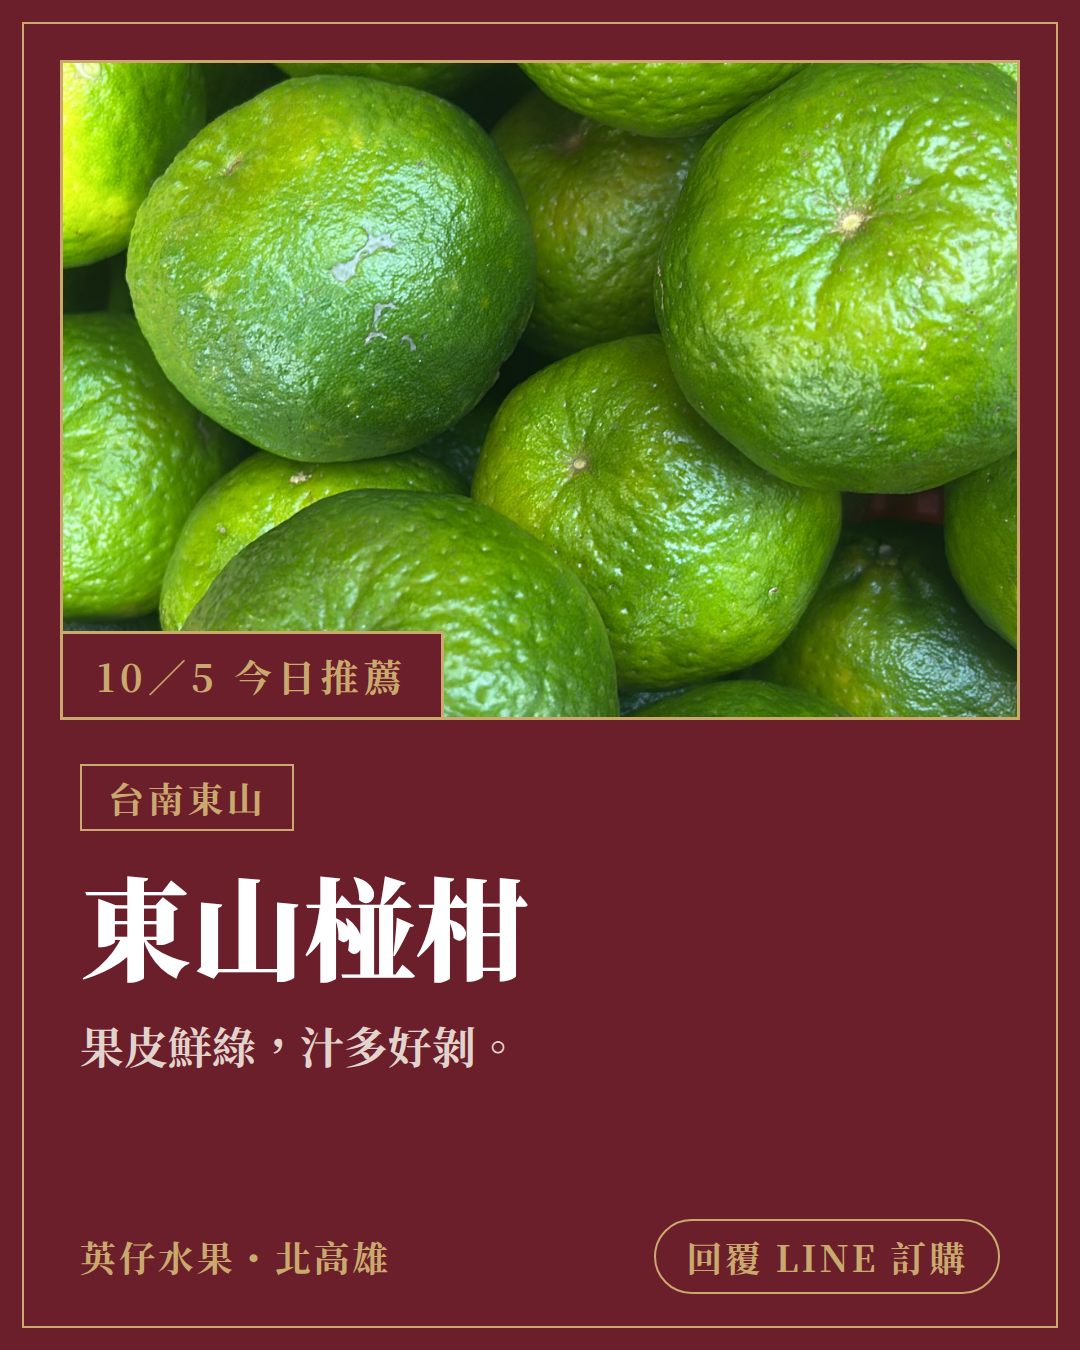
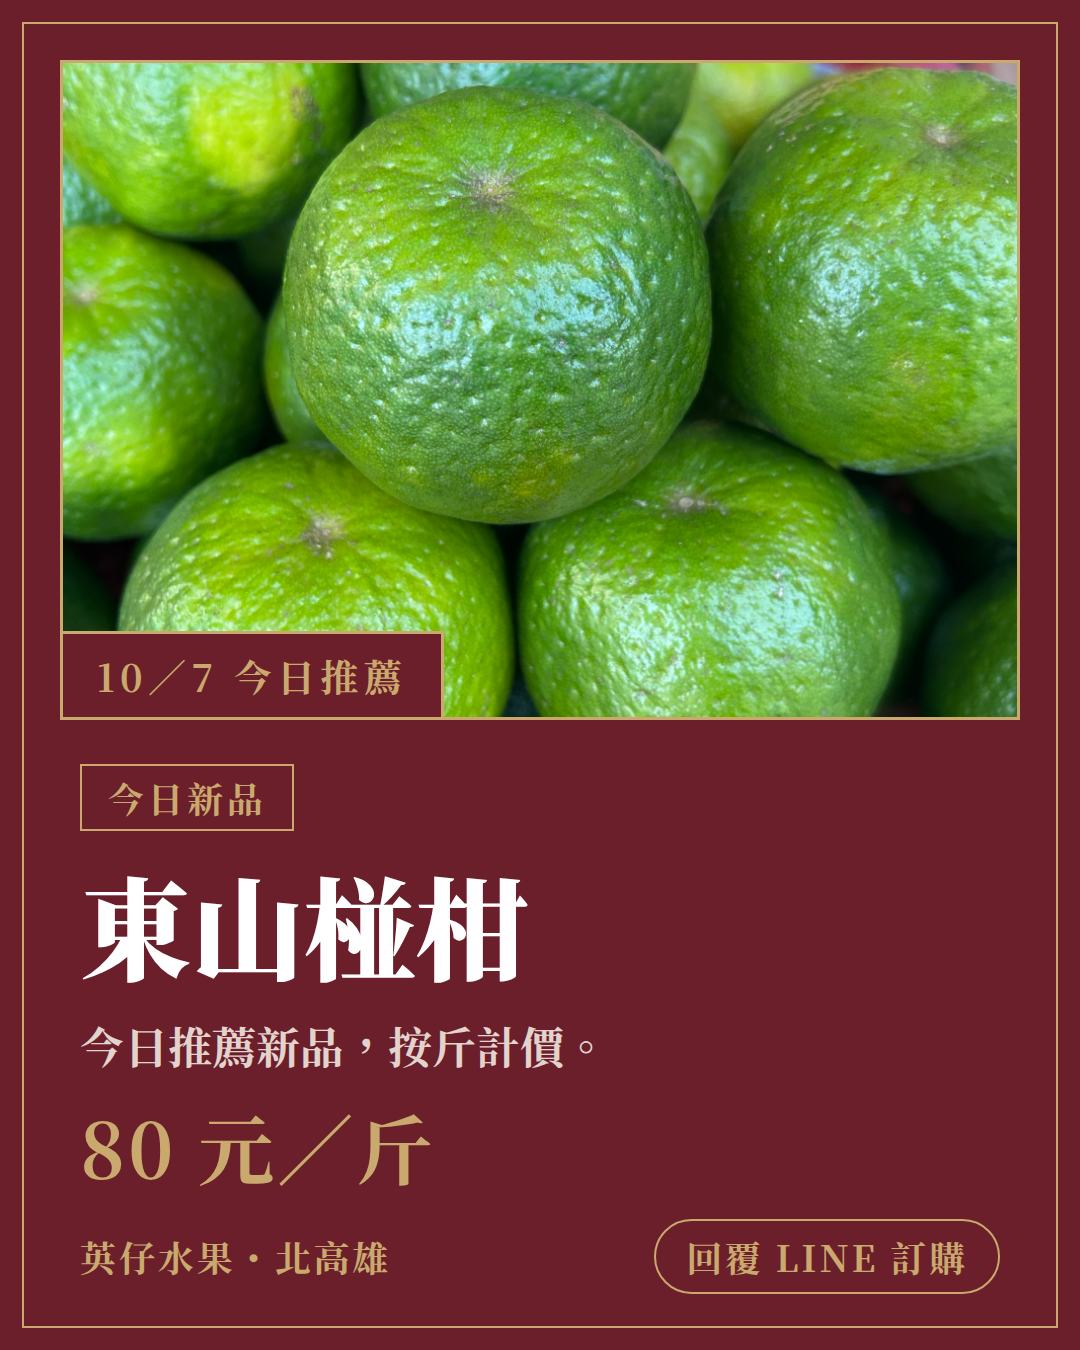
Update cards/list with today's new items and prices
Claude-Session: https://claude.ai/code/session_01PL7HGywDrPUdsLBcZeJFu6

diff --git a/ig/line.html b/ig/line.html
@@ -29,9 +29,9 @@ body{background:#999;font-family:'Noto Serif TC',serif;font-weight:700;display:f
 .card .ph{flex:0 0 380px;height:380px;background-size:cover;background-position:center;border:3px solid var(--gold)}
 .card .tx{flex:1;display:flex;flex-direction:column;justify-content:center}
 .tag{align-self:flex-start;background:var(--wine);color:var(--cream);font-size:32px;padding:6px 24px;letter-spacing:.08em}
-.card h3{font-size:60px;font-weight:900;margin:22px 0 14px;line-height:1.2;color:var(--wine)}
+.card h3{font-size:56px;font-weight:900;margin:22px 0 14px;line-height:1.2;color:var(--wine)}
 .card p{font-size:36px;line-height:1.65;color:#4a4a4a}
-.price{margin-top:14px;font-size:44px;font-weight:700;color:var(--wine)}
+.price{margin-top:12px;font-size:52px;font-weight:700;color:var(--wine)}
 .cta{background:var(--wine);color:var(--cream);padding:70px;text-align:center}
 .cta h4{font-size:64px;font-weight:900;color:var(--gold);line-height:1.3}
 .cta p{font-size:40px;line-height:1.8;margin-top:22px}
@@ -39,13 +39,14 @@ body{background:#999;font-family:'Noto Serif TC',serif;font-weight:700;display:f
 </style></head><body>
 <script>
 // ===== 每天只需改這裡 =====
-const DATE = '10／5';
+const DATE = (() => { const t = new Date(new Date().toLocaleString('en-US', { timeZone: 'Asia/Taipei' })); return `${t.getMonth() + 1}／${t.getDate()}`; })();
 const ITEMS = [
- {name:'東山椪柑', origin:'台南東山', desc:'果皮鮮綠，汁多好剝。', price:'', img:'photos/ponkan.jpg'},
- {name:'十月龍眼', origin:'台中', desc:'十月當季龍眼，一串一串帶回家。', price:'', img:'photos/longan.jpg'},
- {name:'美國蜜世界', origin:'美國空運', desc:'整顆個頭大，果肉清甜，聚會分享剛好。', price:'', img:'photos/honeydew.jpg'},
- {name:'老欉文旦', origin:'雲林斗六', desc:'老欉栽培的文旦，中秋過後也適合送禮、拜拜。', price:'', img:'photos/pomelo.jpg'},
- {name:'San Clemente 蘋果', origin:'智利進口', desc:'紅潤漂亮的進口蘋果，削皮或直接吃都好。', price:'', img:'photos/apple.jpg'}
+ {file:'apple', name:'智利蘋果', origin:'智利進口', desc:'今日推薦新品。', price:'3 顆 100 元', img:'photos/apple-new.jpg'},
+ {file:'honeydew', name:'美國蜜世界', origin:'美國空運', desc:'今日推薦新品。', price:'1 顆 400 元', img:'photos/melon-new.jpg'},
+ {file:'passion', name:'藍星百香果', origin:'今日新品', desc:'這超香，吃起來超甜！', price:'5 粒 100 元', img:'photos/passion.jpg'},
+ {file:'persimmon', name:'次郎甜柿', origin:'今日新品', desc:'今日推薦新品。', price:'1 顆 50 元', img:'photos/persimmon.jpg'},
+ {file:'dragonfruit', name:'火龍果', origin:'今日新品', desc:'今日推薦新品，按斤計價。', price:'60 元／斤', img:'photos/dragonfruit.jpg'},
+ {file:'ponkan', name:'東山椪柑', origin:'今日新品', desc:'今日推薦新品，按斤計價。', price:'80 元／斤', img:'photos/ponkan-new.jpg'}
 ];
 // ==========================
 const cover = `<div id="cover"><div class="frame"></div>

diff --git a/ig/card.html b/ig/card.html
@@ -14,19 +14,20 @@ body{background:#999;font-family:'Noto Serif TC',serif;font-weight:700;display:f
 .tag{align-self:flex-start;border:2px solid var(--gold);color:var(--gold);font-size:36px;padding:6px 26px;letter-spacing:.1em}
 h2{font-size:112px;font-weight:900;line-height:1.2;margin:26px 0 18px;color:#fff}
 p{font-size:44px;line-height:1.65;color:rgba(250,245,236,.85)}
-.price{font-size:60px;color:var(--gold);margin-top:14px}
+.price{font-size:76px;color:var(--gold);margin-top:10px;letter-spacing:.04em}
 .foot{margin-top:auto;display:flex;justify-content:space-between;align-items:center;font-size:36px;color:var(--gold);letter-spacing:.08em}
 .foot b{border:2px solid var(--gold);padding:10px 30px;border-radius:50px;font-weight:700}
 </style></head><body>
 <script>
 // ===== 每天只需改這裡 =====
-const DATE = '10／5';
+const DATE = (() => { const t = new Date(new Date().toLocaleString('en-US', { timeZone: 'Asia/Taipei' })); return `${t.getMonth() + 1}／${t.getDate()}`; })();
 const ITEMS = [
- {file:'ponkan', name:'東山椪柑', origin:'台南東山', desc:'果皮鮮綠，汁多好剝。', price:'', img:'photos/ponkan.jpg'},
- {file:'longan', name:'十月龍眼', origin:'台中', desc:'十月當季龍眼，一串一串帶回家。', price:'', img:'photos/longan.jpg'},
- {file:'honeydew', name:'美國蜜世界', origin:'美國空運', desc:'整顆個頭大，果肉清甜，聚會分享剛好。', price:'', img:'photos/honeydew.jpg'},
- {file:'pomelo', name:'老欉文旦', origin:'雲林斗六', desc:'老欉栽培的文旦，適合送禮、拜拜。', price:'', img:'photos/pomelo.jpg'},
- {file:'apple', name:'San Clemente 蘋果', origin:'智利進口', desc:'紅潤漂亮的進口蘋果，削皮或直接吃都好。', price:'', img:'photos/apple.jpg'}
+ {file:'apple', name:'智利蘋果', origin:'智利進口', desc:'今日推薦新品。', price:'3 顆 100 元', img:'photos/apple-new.jpg'},
+ {file:'honeydew', name:'美國蜜世界', origin:'美國空運', desc:'今日推薦新品。', price:'1 顆 400 元', img:'photos/melon-new.jpg'},
+ {file:'passion', name:'藍星百香果', origin:'今日新品', desc:'這超香，吃起來超甜！', price:'5 粒 100 元', img:'photos/passion.jpg'},
+ {file:'persimmon', name:'次郎甜柿', origin:'今日新品', desc:'今日推薦新品。', price:'1 顆 50 元', img:'photos/persimmon.jpg'},
+ {file:'dragonfruit', name:'火龍果', origin:'今日新品', desc:'今日推薦新品，按斤計價。', price:'60 元／斤', img:'photos/dragonfruit.jpg'},
+ {file:'ponkan', name:'東山椪柑', origin:'今日新品', desc:'今日推薦新品，按斤計價。', price:'80 元／斤', img:'photos/ponkan-new.jpg'}
 ];
 // ==========================
 document.body.insertAdjacentHTML('beforeend', ITEMS.map(i=>`<div class="card" data-file="${i.file}"><div class="frame"></div>
